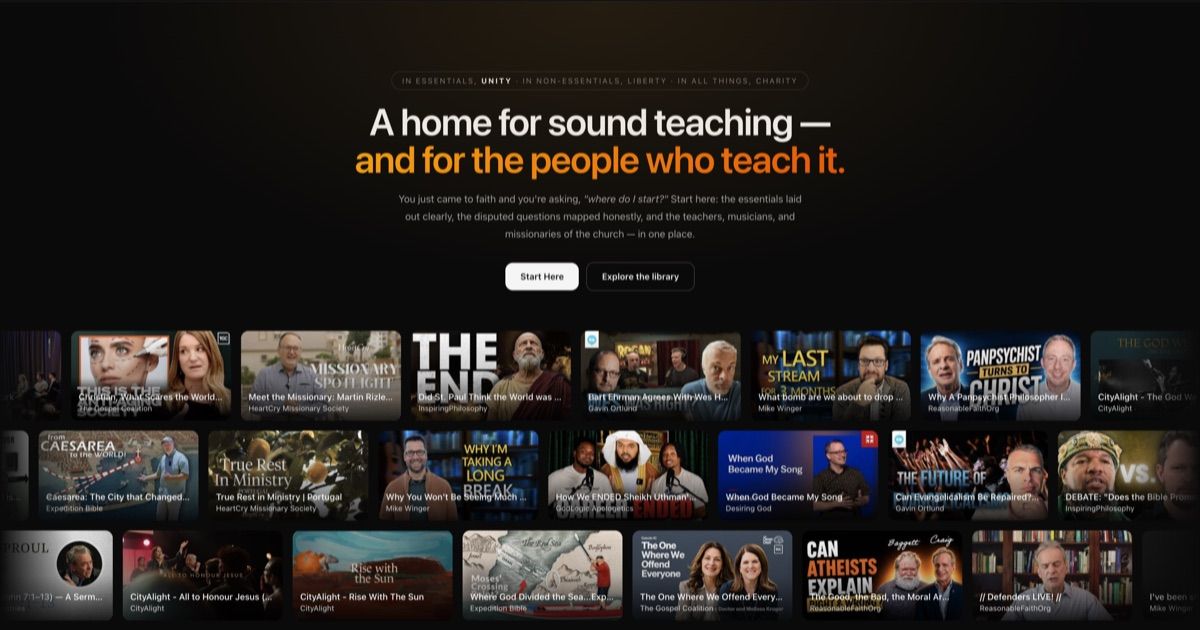
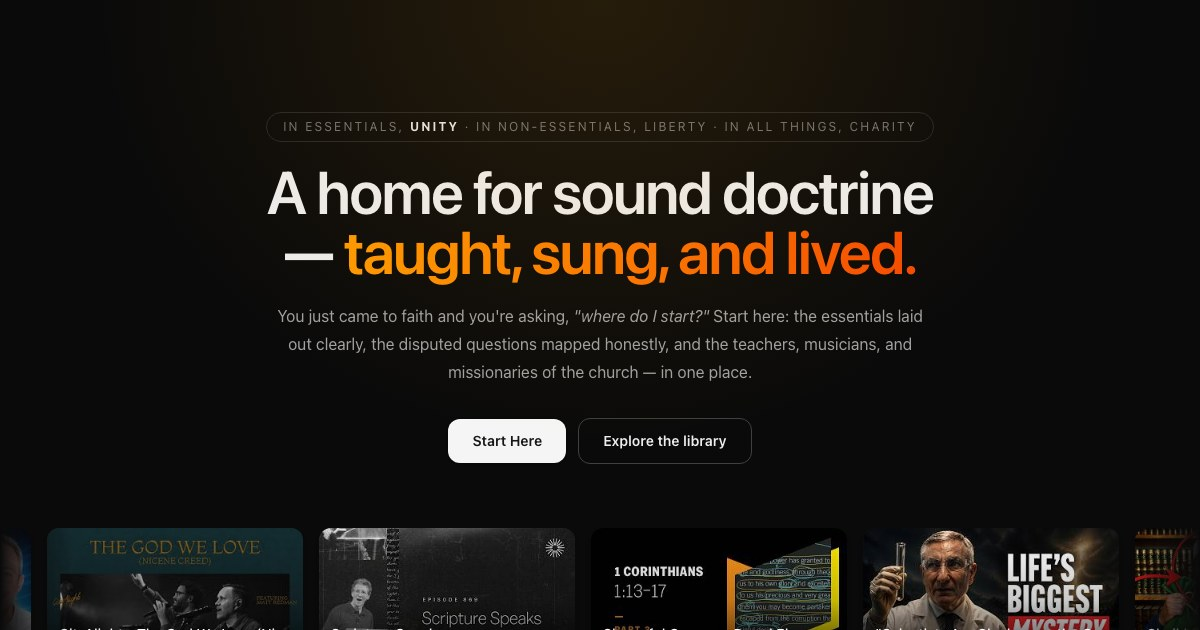
Homepage: a home for sound doctrine — taught, sung, and lived
Musicians worship, they don't teach — the tagline now embraces both
(and everything the roadmap adds). Meta description and the baked-in
OG share card regenerated to match.

diff --git a/app/layout.tsx b/app/layout.tsx
@@ -4,7 +4,7 @@ import { SiteHeader } from "@/components/SiteHeader";
 import "./globals.css";
 
 const description =
-  "A home for sound teaching — and for the people who teach it. In essentials, UNITY. In non-essentials, liberty. In all things, charity.";
+  "A home for sound doctrine — taught, sung, and lived. In essentials, UNITY. In non-essentials, liberty. In all things, charity.";
 
 export const metadata: Metadata = {
   metadataBase: new URL("https://www.thechristian.foundation"),
@@ -19,7 +19,7 @@ export const metadata: Metadata = {
     title: "Christian Foundation",
     description,
     url: "/",
-    images: [{ url: "/og.jpg", width: 1200, height: 630, alt: "Christian Foundation — a home for sound teaching" }],
+    images: [{ url: "/og.jpg", width: 1200, height: 630, alt: "Christian Foundation — a home for sound doctrine" }],
   },
   twitter: {
     card: "summary_large_image",

diff --git a/app/page.tsx b/app/page.tsx
@@ -114,9 +114,9 @@ export default async function Home() {
             In essentials, <span className="font-bold text-neutral-800 dark:text-neutral-200">unity</span> · In non-essentials, liberty · In all things, charity
           </p>
           <h1 className="text-balance text-4xl font-semibold tracking-tight sm:text-6xl">
-            A home for sound teaching —{" "}
+            A home for sound doctrine —{" "}
             <span className="bg-linear-to-r from-amber-500 to-orange-600 bg-clip-text text-transparent">
-              and for the people who teach it.
+              taught, sung, and lived.
             </span>
           </h1>
           <p className="mx-auto mt-5 max-w-2xl text-pretty text-base leading-7 text-neutral-600 dark:text-neutral-400">
